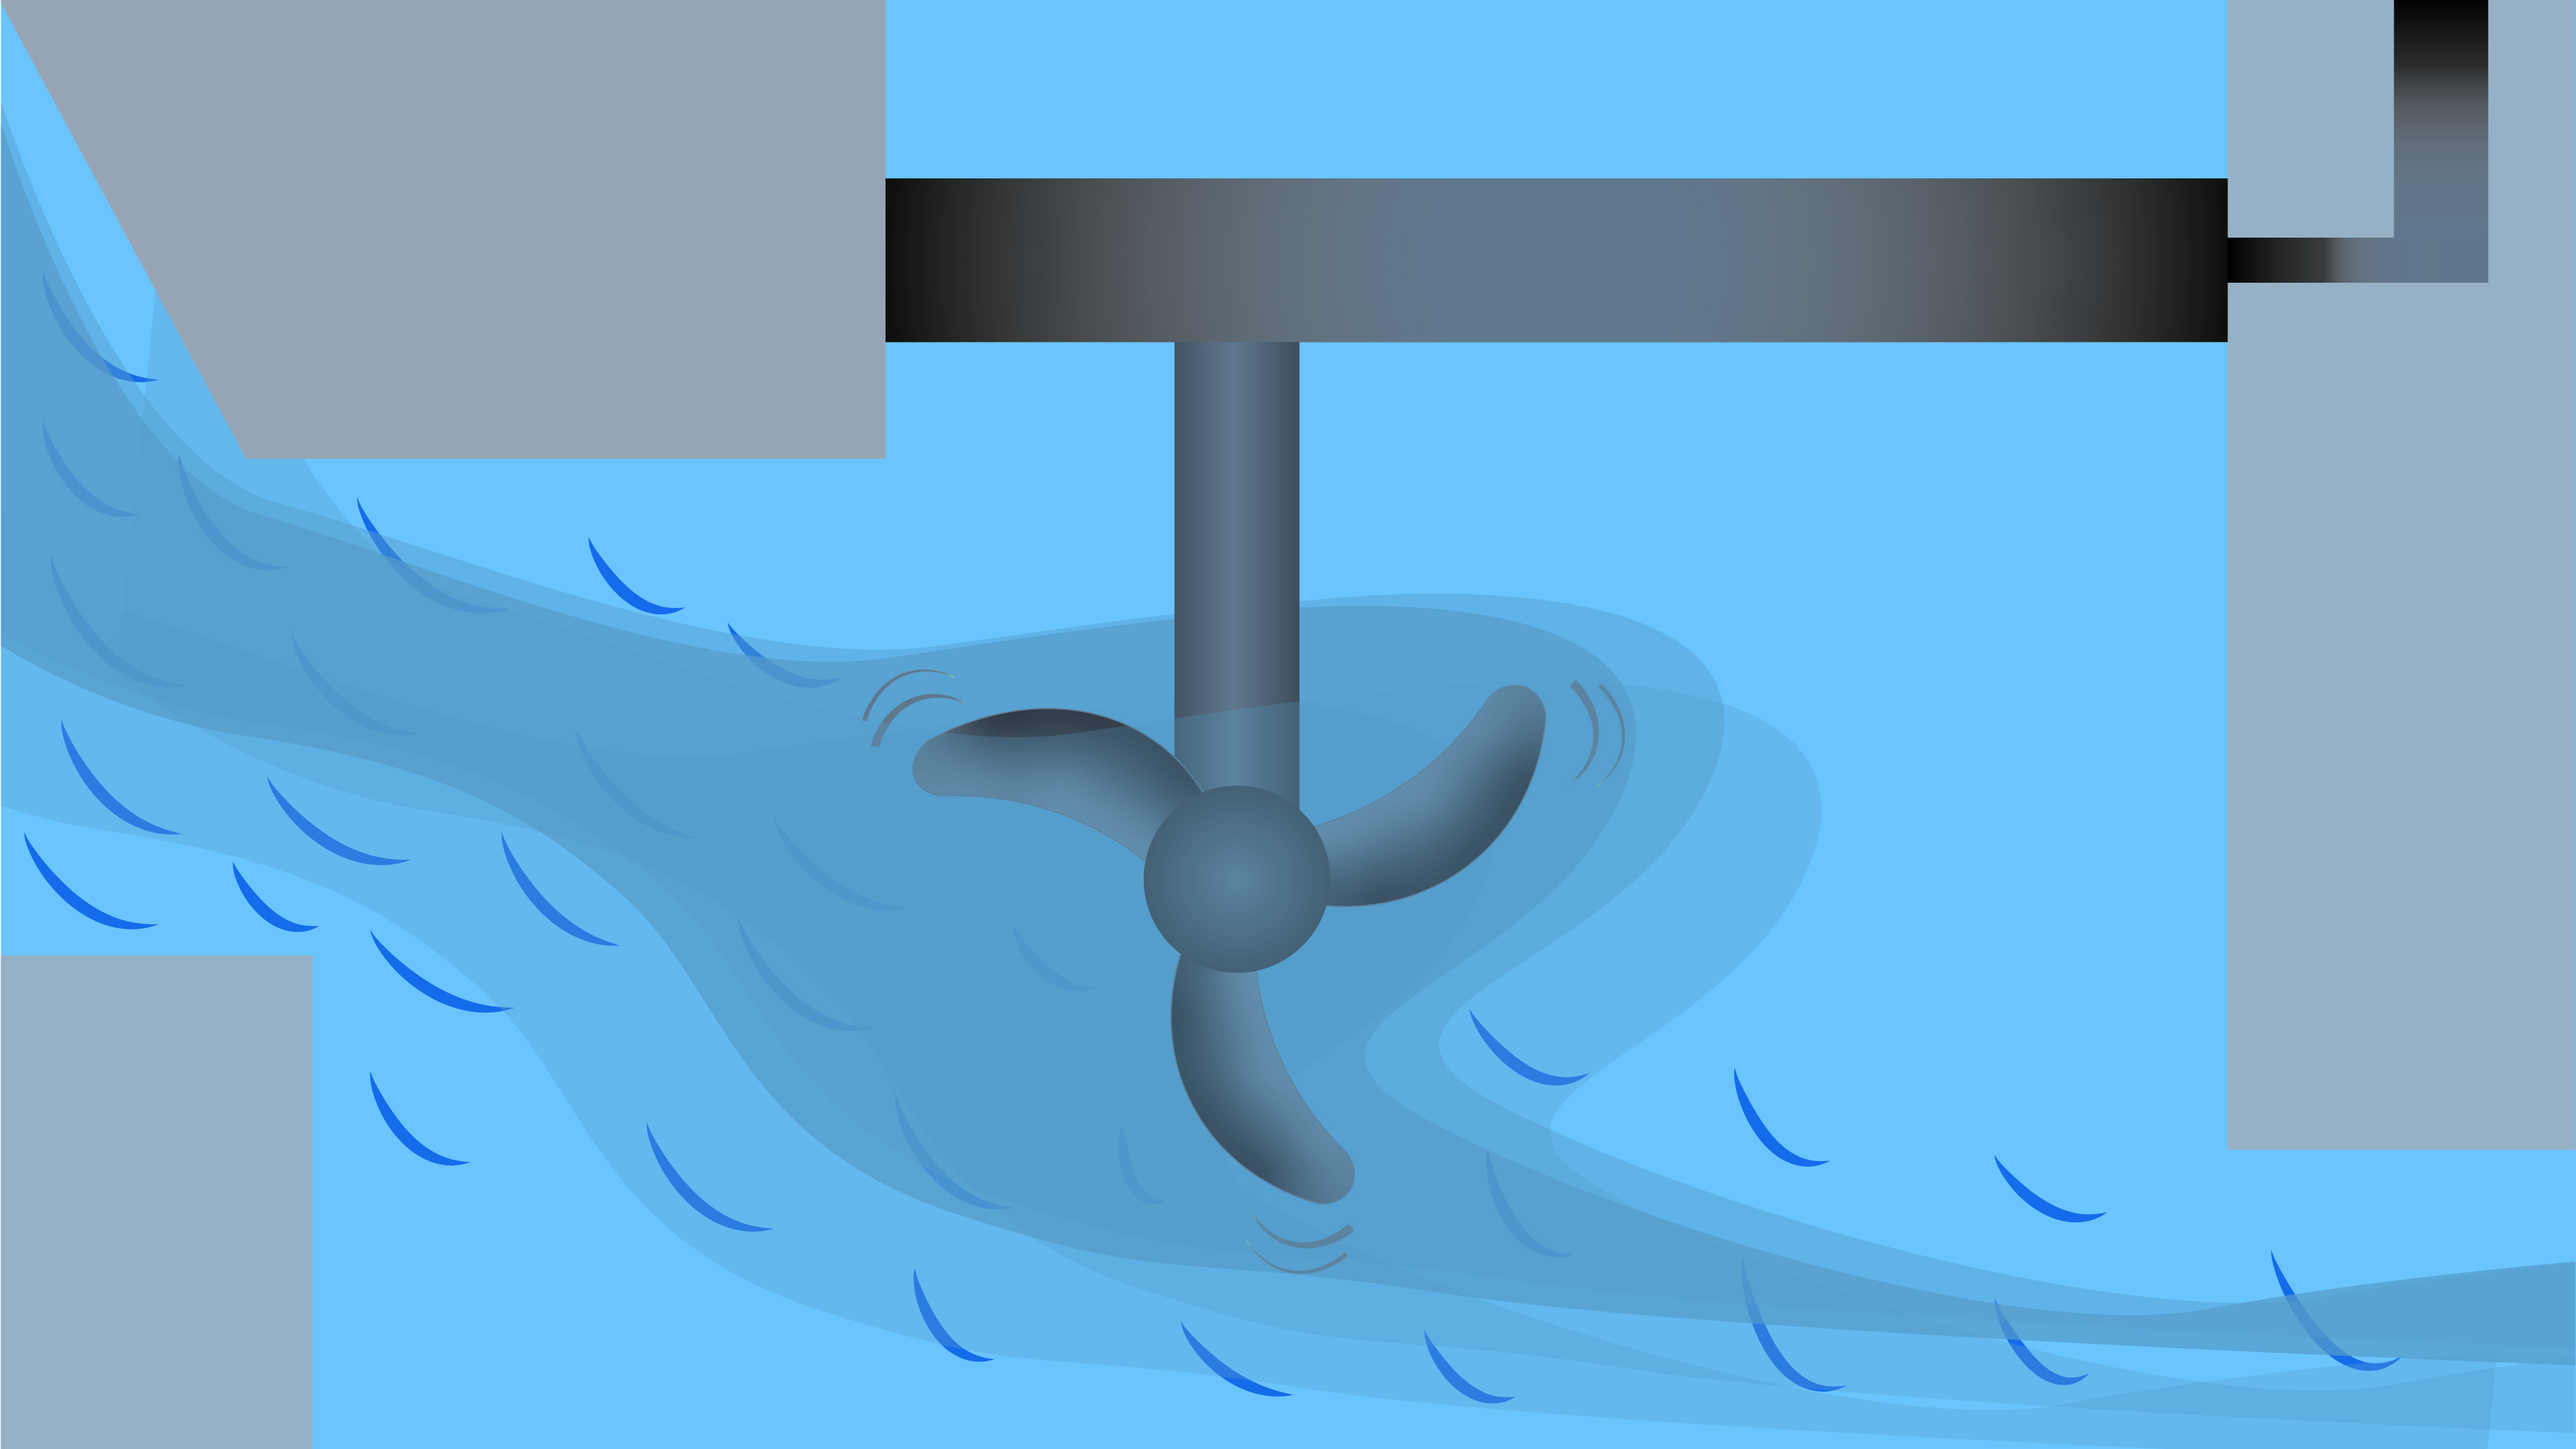
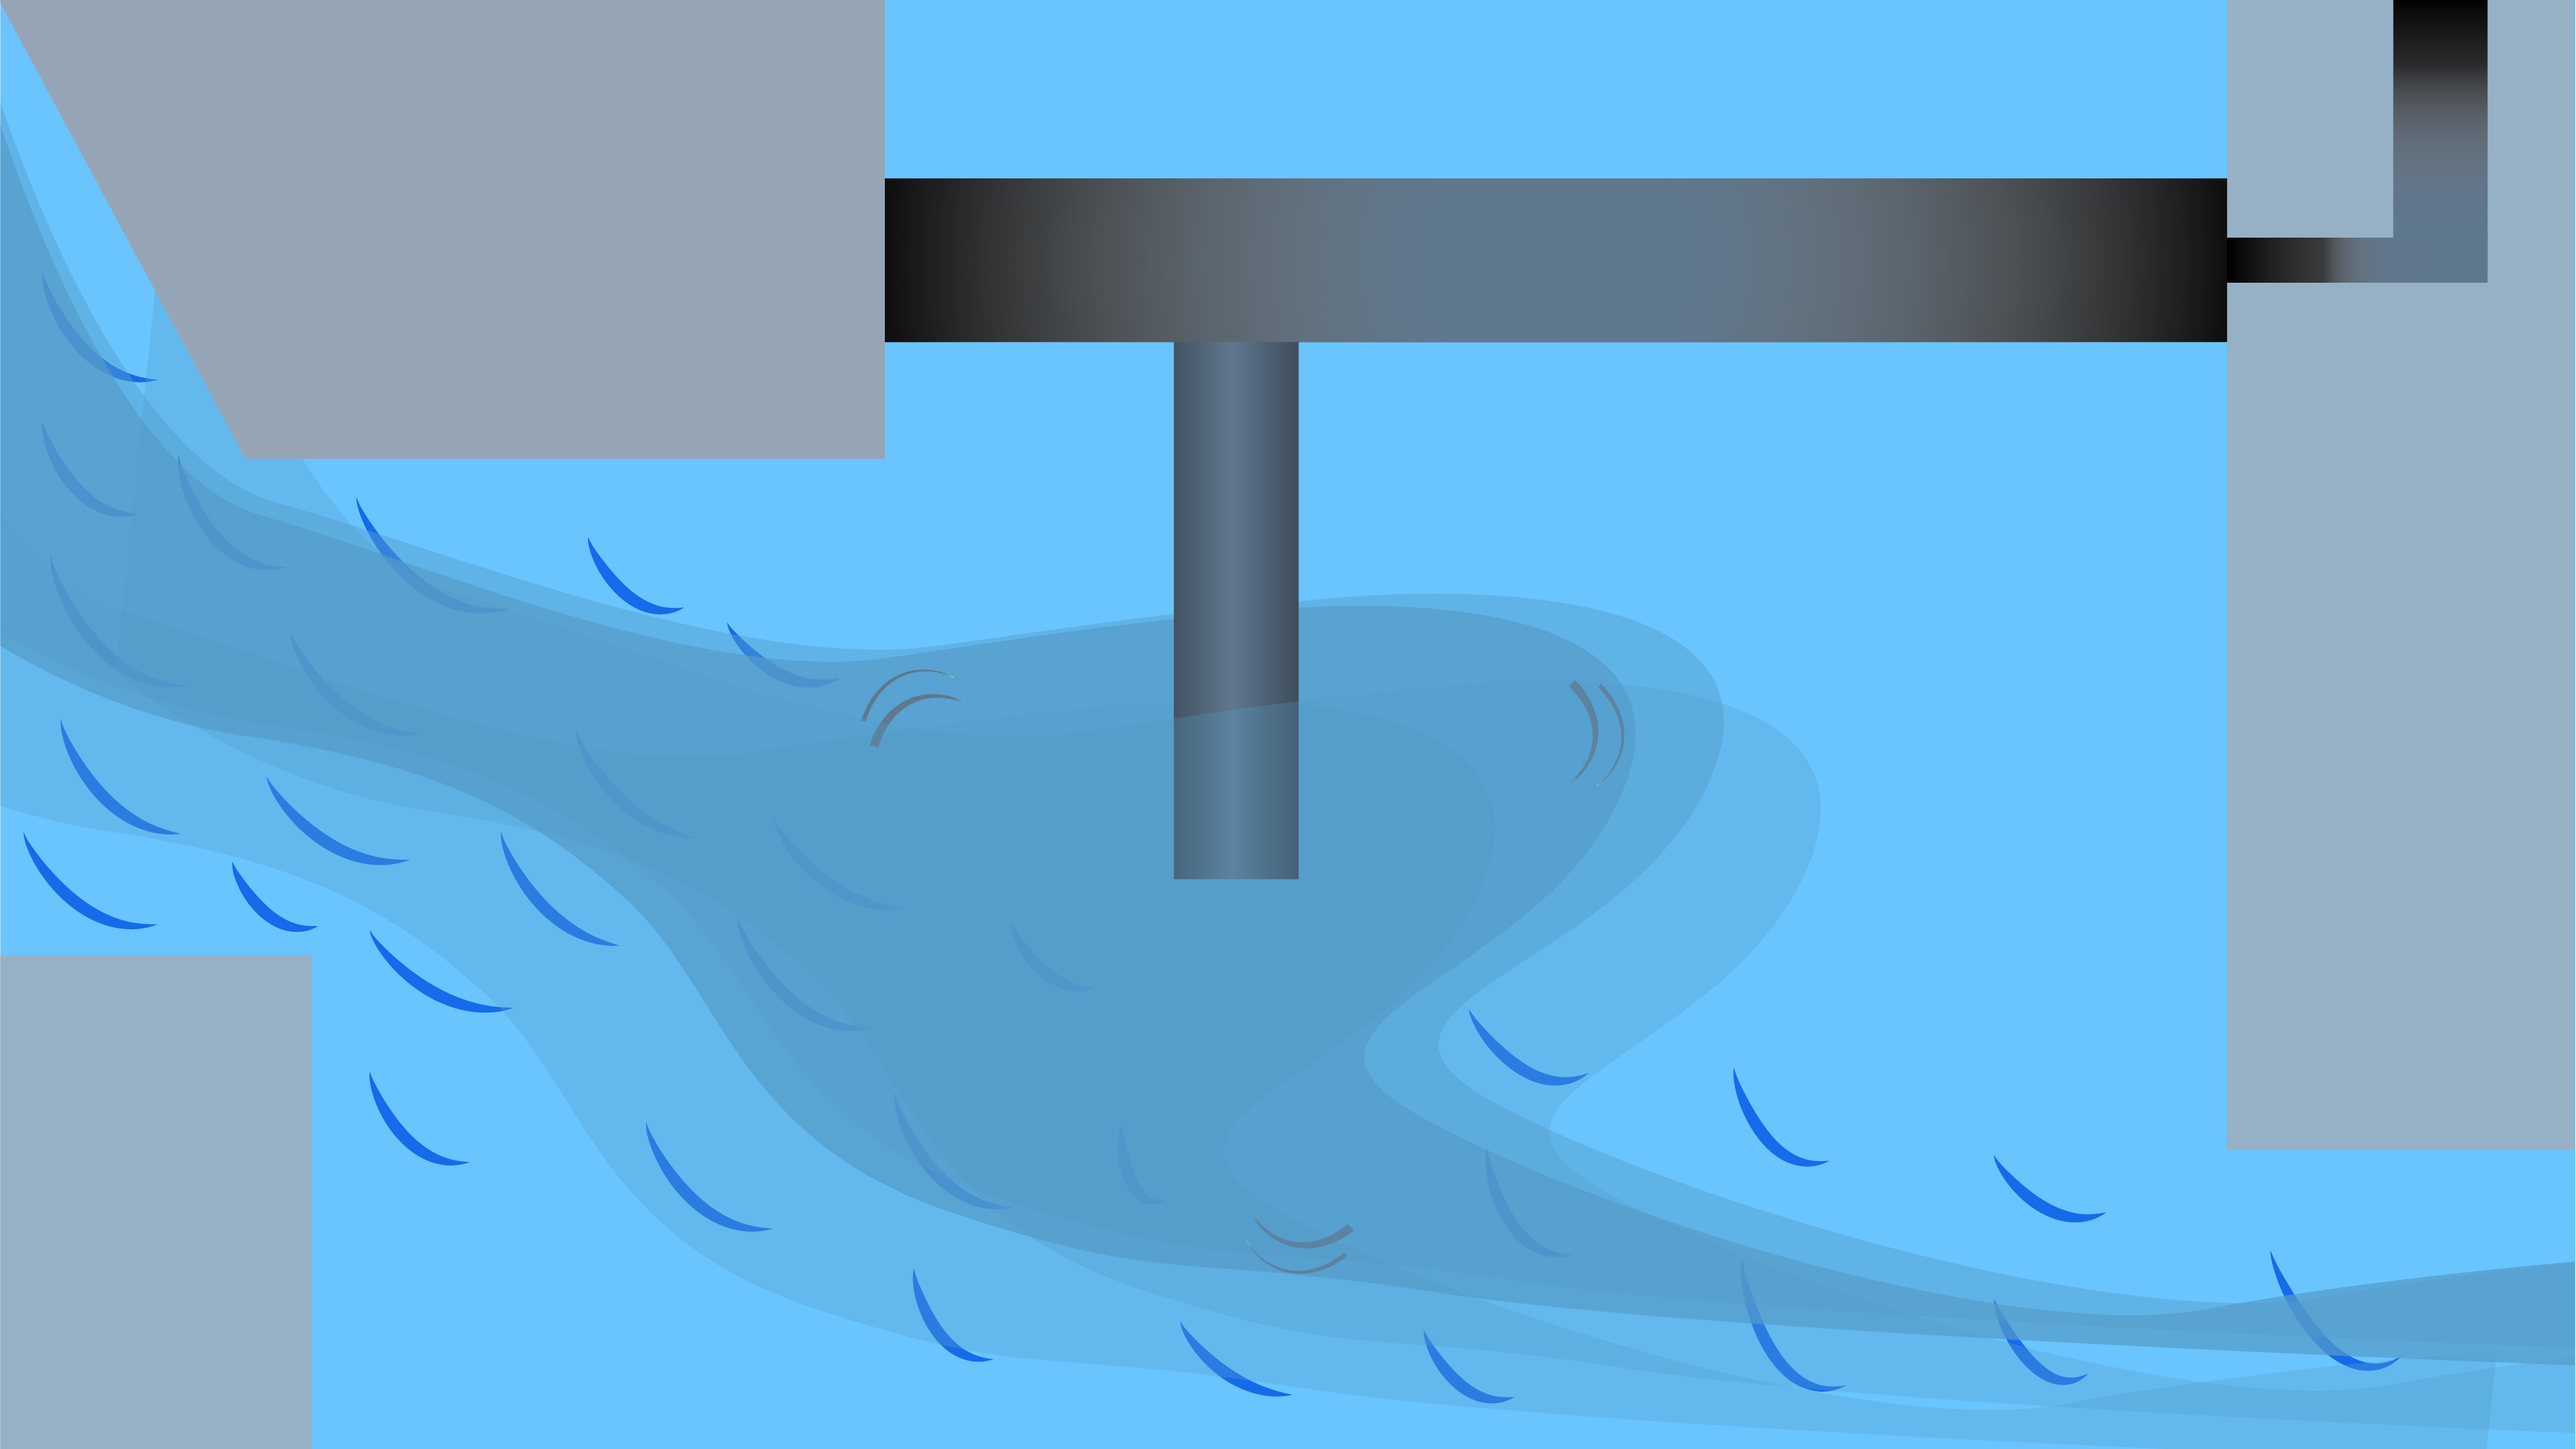
Make spinning image

Changed region(s): [[0.3438, 0.4667, 0.625, 0.84]]

diff --git a/index.html b/index.html
@@ -241,7 +241,15 @@
         </div>
       </section>
       <section id="" class="subsec"></section>
-      <section id="comoFunciona" class="sec secThree"></section>
+      <section id="comoFunciona" class="sec secThree">
+        <div class="helice-container">
+          <img
+            src="images/helice.png"
+            alt="Turbina em rotação"
+            class="helice-rotativa"
+          />
+        </div>
+      </section>
       <section id="" class="subsec"></section>
       <section id="prosContras" class="sec secFour"></section>
       <section id="" class="subsec"></section>
@@ -275,7 +283,8 @@
                 </div>
                 <div class="flip-card-back">
                   <p>
-                    A barragem do Alqueva, no Alentejo, tem o maior lago artificial da Europa Ocidental, com 250 km² de área! 
+                    A barragem do Alqueva, no Alentejo, tem o maior lago
+                    artificial da Europa Ocidental, com 250 km² de área!
                   </p>
                 </div>
               </div>
@@ -290,7 +299,9 @@
                 </div>
                 <div class="flip-card-back">
                   <p>
-                    Uma central hidroelétrica pode ligar-se em apenas 90 segundos! Muito mais rápido que uma central a carvão que demora horas. 
+                    Uma central hidroelétrica pode ligar-se em apenas 90
+                    segundos! Muito mais rápido que uma central a carvão que
+                    demora horas.
                   </p>
                 </div>
               </div>
@@ -305,7 +316,9 @@
                 </div>
                 <div class="flip-card-back">
                   <p>
-                    Os primeiros moinhos de água surgiram há mais de 2 000 anos na Grécia Antiga para moer grão. A ideia de usar a água como energia não é nova! 
+                    Os primeiros moinhos de água surgiram há mais de 2 000 anos
+                    na Grécia Antiga para moer grão. A ideia de usar a água como
+                    energia não é nova!
                   </p>
                 </div>
               </div>

diff --git a/css/estilos.css b/css/estilos.css
@@ -177,7 +177,6 @@ main {
 }
 .sec {
   min-height: 100vh;
-  background-color: #2c2c2c;
   background-repeat: no-repeat;
   background-size: cover;
   background-position: center;
@@ -455,6 +454,35 @@ p {
 ::-webkit-scrollbar-thumb {
   background: #57aaf2;
   border-radius: 3px;
+}
+
+/* --- ANIMAÇÃO HELICE --- */
+@keyframes rotacao-infinita {
+  from {
+    transform: rotate(0deg);
+  }
+  to {
+    transform: rotate(360deg);
+  }
+}
+
+/* --- SECÇÃO COMO FUNCIONA --- */
+.helice-container {
+  display: flex;
+  justify-content: center;
+  align-items: center;
+  width: 100%;
+  height: 100%;
+  padding-top: 200px;
+  padding-right: 90px;
+}
+
+.helice-rotativa {
+  width: 500px;
+  height: 500px;
+  object-fit: contain;
+  animation: rotacao-infinita 1s linear infinite;
+  filter: drop-shadow(0 10px 30px rgba(0, 0, 0, 0.3));
 }
 
 /* --- SECÇÃO CONTATOS --- */
